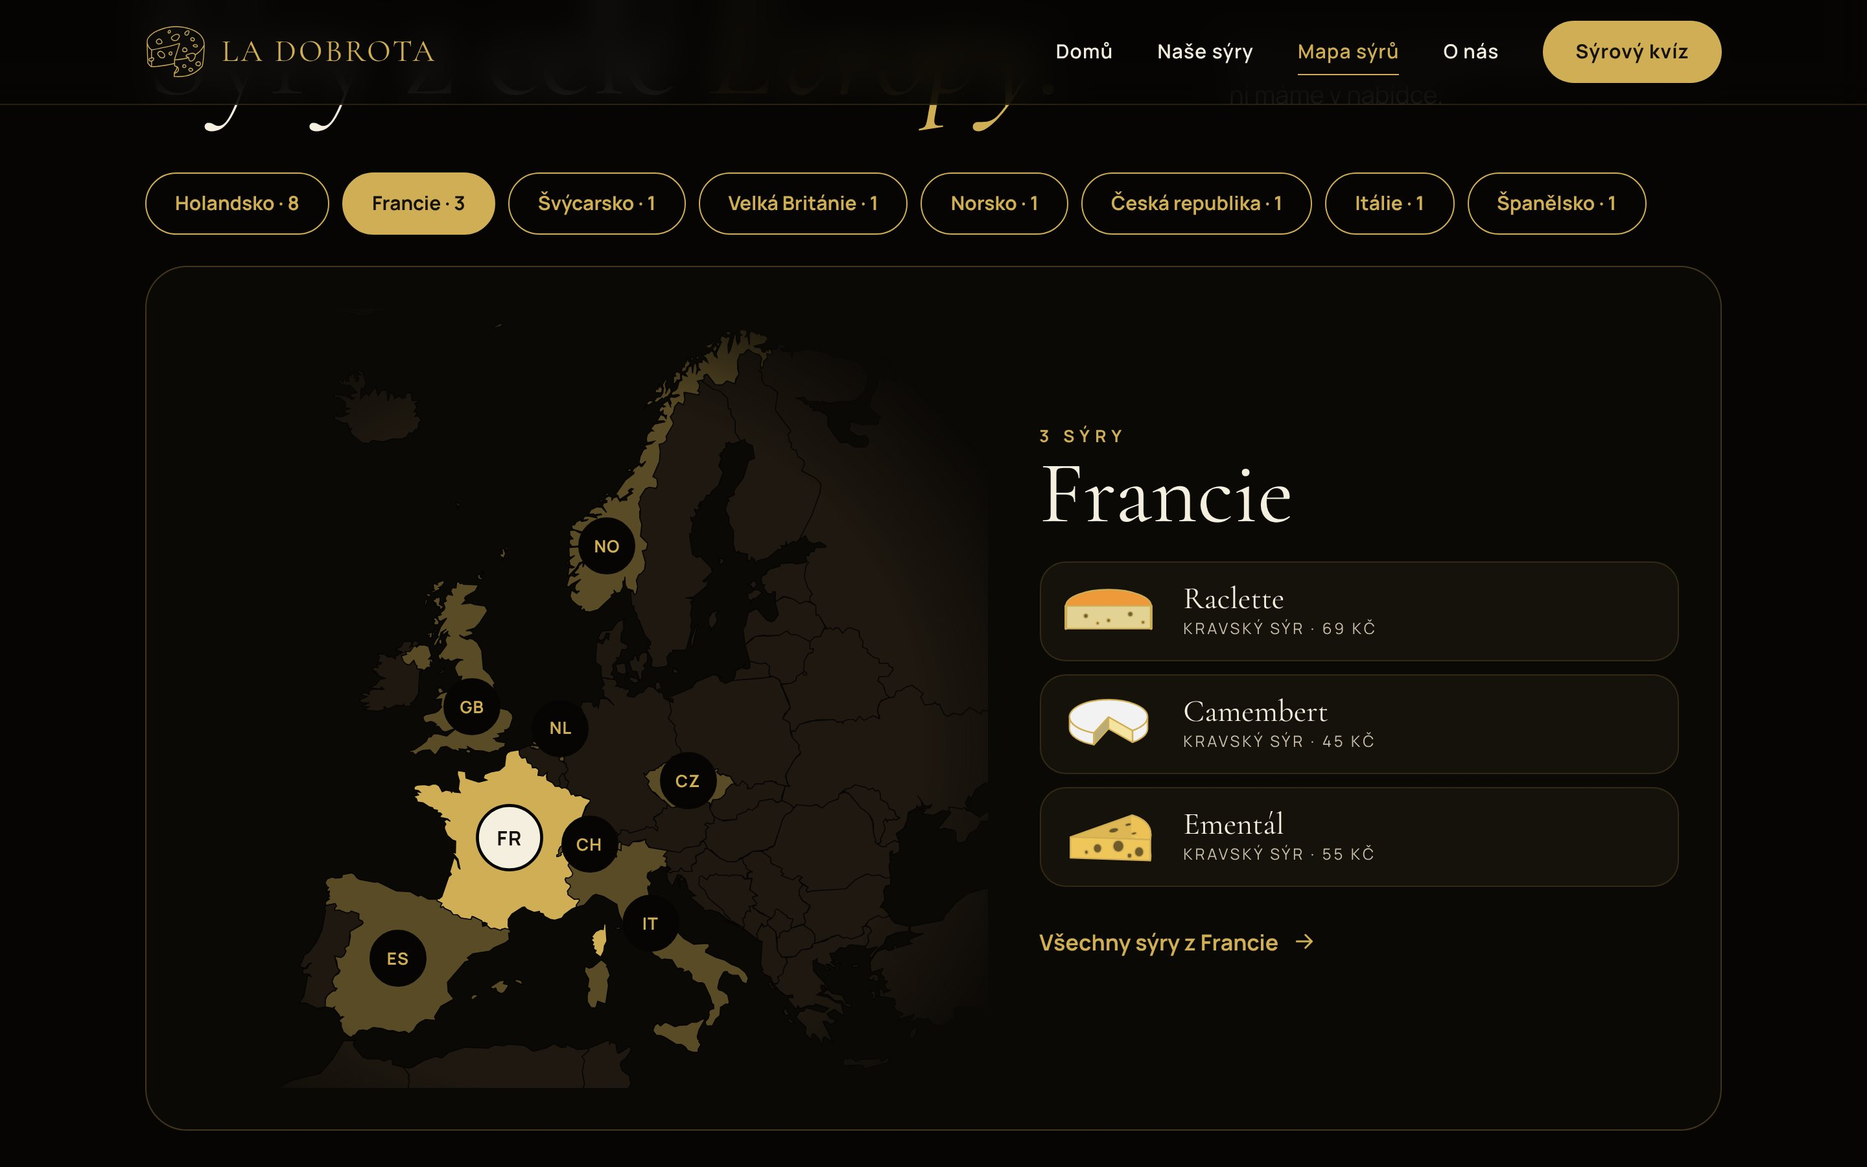
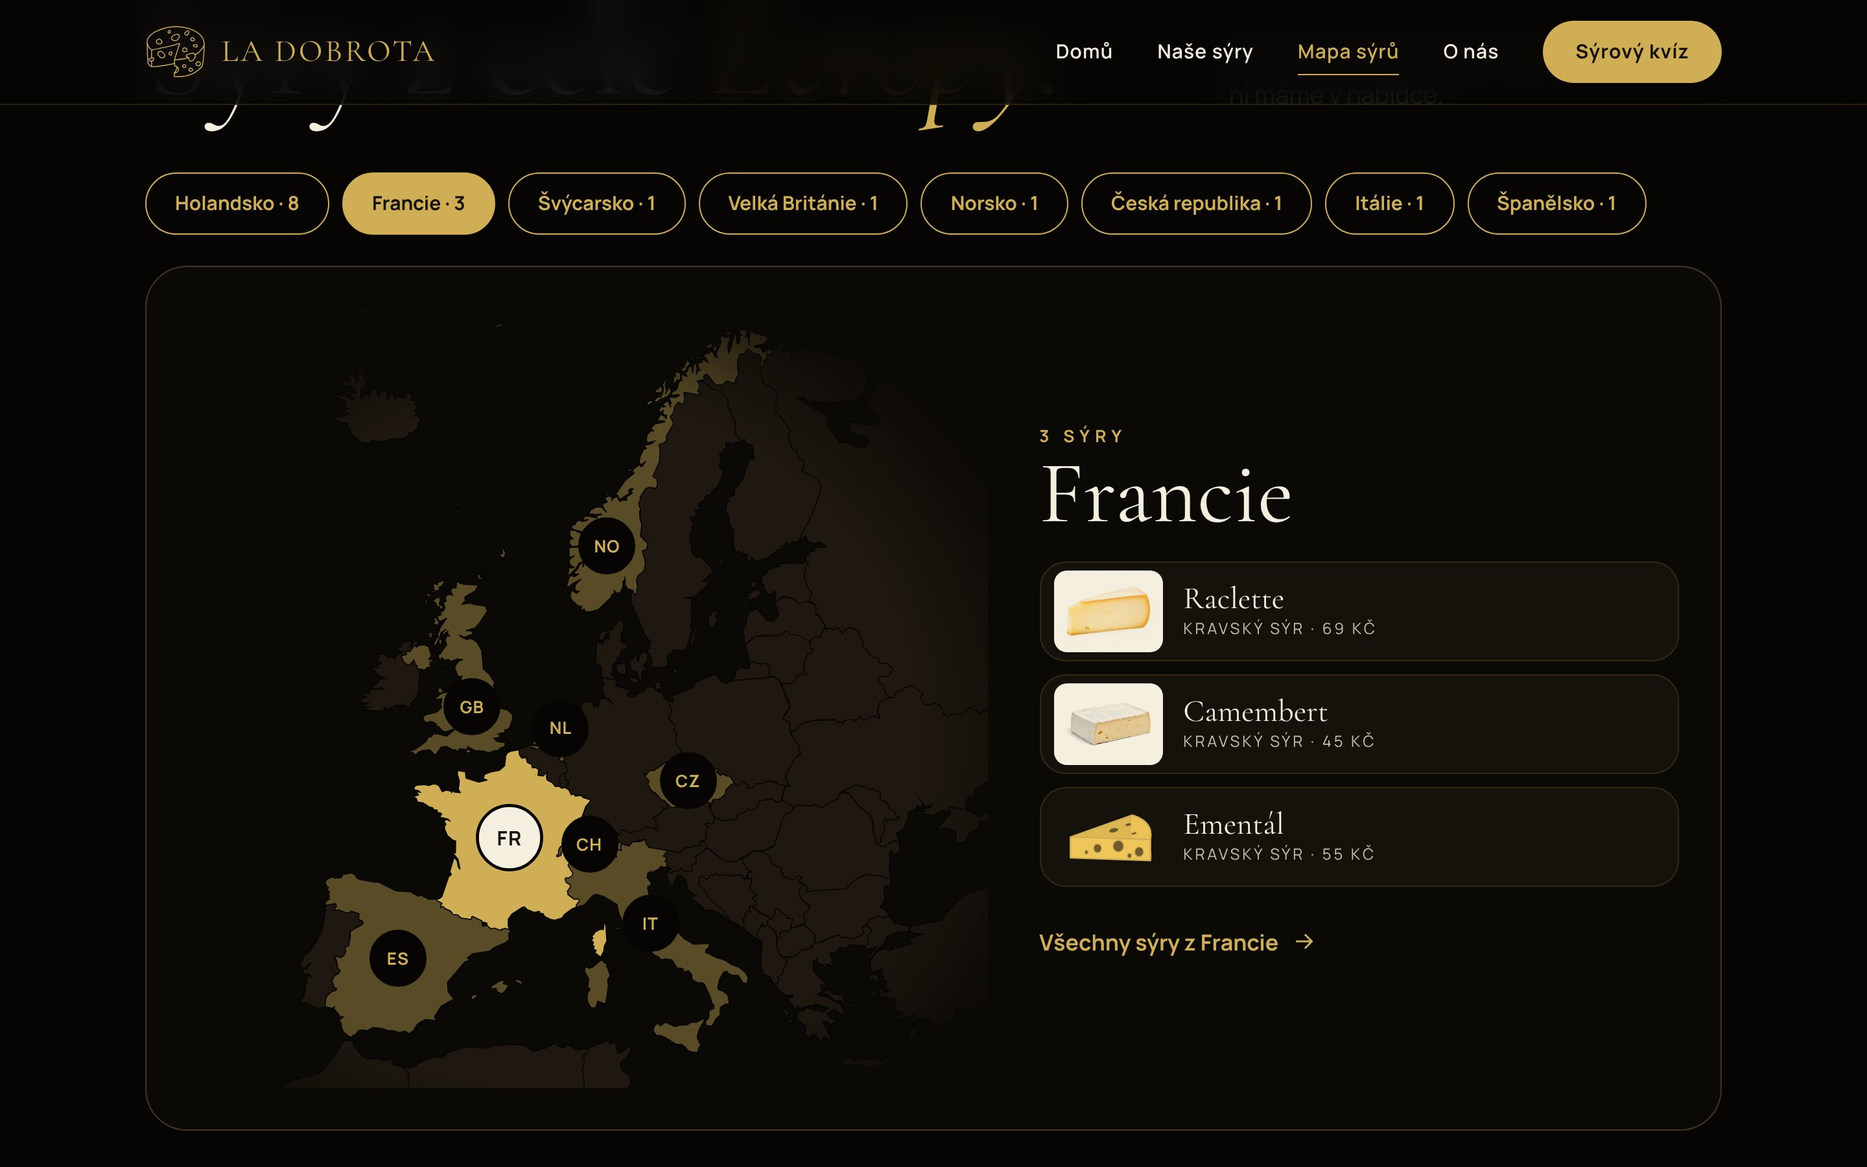
Use product photos for 14 cheeses
Photos come from syrydomu.cz, cropped to the cheese and shown on an
ivory tile; the catalogue page credits the source. Fancy Gouda and
Ementál keep their illustrations.

Claude-Session: https://claude.ai/code/session_01QZve3F1soMAkrn3iQReE83

Changed region(s): [[0.5625, 0.4667, 0.625, 0.6533]]

diff --git a/assets/js/data.js b/assets/js/data.js
@@ -23,16 +23,17 @@ export const COUNTRIES = {
 export const COUNTRY_ORDER = ['nl', 'fr', 'ch', 'gb', 'no', 'cz', 'it', 'es'];
 
 // price = katalogová cena s DPH v Kč; photo = cesta k fotce (když je prázdná, použije se ilustrace img)
+// Fotografie pocházejí z www.syrydomu.cz.
 export const CHEESES = [
   {
     id: 'syr-s-vlasskymi-orechy', name: 'Sýr s vlašskými ořechy', milk: 'kravske', countries: ['nl'], price: 69, allergens: [7, 8],
-    img: '01-syr-s-vlasskymi-orechy.svg', photo: '',
+    img: '01-syr-s-vlasskymi-orechy.svg', photo: '/assets/img/syry/foto/syr-s-vlasskymi-orechy.jpg',
     text: 'Základ tvoří jemný sýr, ve kterém jsou rozprostřené kousky ořechů.',
     fact: '',
   },
   {
     id: 'gouda', name: 'Gouda', milk: 'kravske', countries: ['nl'], price: 49, allergens: [7],
-    img: '02-gouda.svg', photo: '',
+    img: '02-gouda.svg', photo: '/assets/img/syry/foto/gouda.jpg',
     text: 'Sýr, který má chuť a pořád si zachovává svou krémovost a přístupnost.',
     fact: 'Jmenuje se podle nizozemského města Gouda, kde se s ní odedávna obchodovalo.',
   },
@@ -44,31 +45,31 @@ export const CHEESES = [
   },
   {
     id: 'irsky-cheddar', name: 'Irský cheddar', milk: 'kravske', countries: ['gb'], price: 69, allergens: [7],
-    img: '04-irsky-cheddar.svg', photo: '',
+    img: '04-irsky-cheddar.svg', photo: '/assets/img/syry/foto/irsky-cheddar.jpg',
     text: 'Přesně ten typ sýra, který je ideální na vaření.',
     fact: 'Cheddar dostal jméno podle vesnice Cheddar v anglickém hrabství Somerset.',
   },
   {
     id: 'raclette', name: 'Raclette', milk: 'kravske', countries: ['ch', 'fr'], price: 69, allergens: [7],
-    img: '05-raclette.svg', photo: '',
+    img: '05-raclette.svg', photo: '/assets/img/syry/foto/raclette.jpg',
     text: 'Švýcarská specialita na rozpékání. Jemně oříšková, smetanová a lehce ovocná chuť.',
     fact: 'Název pochází z francouzského „racler“ – škrábat. Roztavený sýr se seškrabává přímo na talíř.',
   },
   {
     id: 'uzeny-kremovy-syr', name: 'Uzený krémový sýr', milk: 'kravske', countries: ['nl'], price: 49, allergens: [7],
-    img: '06-uzeny-kremovy-syr.svg', photo: '',
+    img: '06-uzeny-kremovy-syr.svg', photo: '/assets/img/syry/foto/uzeny-kremovy-syr.jpg',
     text: 'Spojuje hladkou krémovou strukturu a díky zauzování na dřevě má jemné kouřové aroma.',
     fact: '',
   },
   {
     id: 'camembert', name: 'Camembert', milk: 'kravske', countries: ['fr'], price: 45, allergens: [7],
-    img: '07-camembert.svg', photo: '',
+    img: '07-camembert.svg', photo: '/assets/img/syry/foto/camembert.jpg',
     text: 'Francouzský sýr s bílou plísňovou kůrkou a jemným, krémovým středem.',
     fact: 'Pochází z Normandie a jmenuje se podle vesnice Camembert.',
   },
   {
     id: 'kaskaval', name: 'Kaškaval', milk: 'kravske', countries: ['nl'], price: 189, allergens: [7],
-    img: '08-kaskaval.svg', photo: '',
+    img: '08-kaskaval.svg', photo: '/assets/img/syry/foto/kaskaval.jpg',
     text: 'Tradiční balkánský polotvrdý sýr. Je ideální jak pro studenou kuchyni, tak i pro tepelnou úpravu.',
     fact: 'Na Balkáně se kaškaval často obaluje a smaží.',
   },
@@ -80,43 +81,43 @@ export const CHEESES = [
   },
   {
     id: 'karamelovy-syr-brunost', name: 'Karamelový sýr Brunost', milk: 'kravske', countries: ['no'], price: 98, allergens: [7],
-    img: '10-karamelovy-syr-brunost.svg', photo: '',
+    img: '10-karamelovy-syr-brunost.svg', photo: '/assets/img/syry/foto/karamelovy-syr-brunost.jpg',
     text: 'Sýr, který chutná jako karamel (a přesto je to sýr). Chuť je sladká, lehce slaná.',
     fact: 'Vyrábí se dlouhým vařením syrovátky se smetanou, při kterém mléčný cukr zkaramelizuje.',
   },
   {
     id: 'ovci-farmarsky-syr', name: 'Ovčí farmářský sýr', milk: 'ovci', countries: ['cz'], price: 79, allergens: [7],
-    img: '11-ovci-farmarsky-syr.svg', photo: '',
+    img: '11-ovci-farmarsky-syr.svg', photo: '/assets/img/syry/foto/ovci-farmarsky-syr.jpg',
     text: 'Má jemnou slanost a máslový základ. Při zrání ho chrání voskový obal.',
     fact: '',
   },
   {
     id: 'pecorino-s-pistaciemi', name: 'Pecorino s pistáciemi Lo Sfizio', short: 'Pecorino s pistáciemi', milk: 'ovci', countries: ['it'], price: 129, allergens: [7, 8],
-    img: '12-pecorino-s-pistaciemi.svg', photo: '',
+    img: '12-pecorino-s-pistaciemi.svg', photo: '/assets/img/syry/foto/pecorino-s-pistaciemi.jpg',
     text: 'Jedinečná kombinace plné chuti ovčího mléka a jemně nasládlých pistácií.',
     fact: 'Pecorino má jméno od italského slova „pecora“ – ovce.',
   },
   {
     id: 'manchego-dop', name: 'Manchego DOP', milk: 'ovci', countries: ['es'], price: 95, allergens: [7, 8],
-    img: '13-manchego-dop.svg', photo: '',
+    img: '13-manchego-dop.svg', photo: '/assets/img/syry/foto/manchego-dop.jpg',
     text: 'Elegantní sýr z ovčího mléka s jemně oříškovou chutí. Je pýchou španělské gastronomie.',
     fact: 'Pravé Manchego se vyrábí jen v kraji La Mancha z mléka ovcí plemene manchega. DOP znamená chráněné označení původu.',
   },
   {
     id: 'kozi-gouda', name: 'Kozí gouda', milk: 'kozi', countries: ['nl'], price: 79, allergens: [7],
-    img: '14-kozi-gouda.svg', photo: '',
+    img: '14-kozi-gouda.svg', photo: '/assets/img/syry/foto/kozi-gouda.jpg',
     text: 'Jemná, klidná, přirozená, s lehce máslovou a jemně nasládlou chutí.',
     fact: 'Kozí sýry jsou bělejší než kravské: kozí mléko neobsahuje žluté barvivo beta-karoten.',
   },
   {
     id: 'kozi-syr-s-medem', name: 'Kozí sýr s medem', milk: 'kozi', countries: ['nl'], price: 89, allergens: [7],
-    img: '15-kozi-syr-s-medem.svg', photo: '',
+    img: '15-kozi-syr-s-medem.svg', photo: '/assets/img/syry/foto/kozi-syr-s-medem.jpg',
     text: 'Kozí základ není výrazný ani ostrý, naopak velmi přístupný a hladký.',
     fact: '',
   },
   {
     id: 'kozi-syr-s-lanyzem', name: 'Kozí sýr s lanýžem', milk: 'kozi', countries: ['nl'], price: 99, allergens: [7, 8],
-    img: '16-kozi-syr-s-lanyzem.svg', photo: '',
+    img: '16-kozi-syr-s-lanyzem.svg', photo: '/assets/img/syry/foto/kozi-syr-s-lanyzem.jpg',
     text: 'Jemná gurmánská delikatesa. Má krásně vyváženou chuť.',
     fact: 'Lanýž je vzácná houba, která roste pod zemí.',
   },
@@ -153,6 +154,8 @@ export const CONTACT = {
 };
 
 export const cheeseImg = (c) => c.photo || `/assets/img/syry/${c.img}`;
+// Obrázek sýra jako HTML: fotka dostane světlou podložku, ilustrace zůstane průhledná.
+export const cheesePic = (c, cls = '') => `<span class="pic ${cls}${c.photo ? ' pic--photo' : ''}"><img src="${esc(cheeseImg(c))}" alt="" width="640" height="480" loading="lazy"></span>`;
 export const cheeseById = (id) => CHEESES.find((c) => c.id === id);
 export const cheesesFrom = (country) => CHEESES.filter((c) => c.countries.includes(country));
 export const allergenText = (c) => c.allergens.map((a) => `${ALLERGENS[a]} (${a})`).join(', ');

diff --git a/assets/css/style.css b/assets/css/style.css
@@ -196,7 +196,12 @@ button { font: inherit; color: inherit; }
 
 /* taste switcher */
 .taste { padding: clamp(24px, 4vw, 48px); display: grid; grid-template-columns: minmax(0, 400px) minmax(0, 1fr); align-items: center; gap: clamp(20px, 4vw, 48px); min-height: 400px; }
-.taste__img { width: 100%; height: auto; aspect-ratio: 4 / 3; object-fit: contain; }
+.pic { display: block; aspect-ratio: 4 / 3; overflow: hidden; }
+.pic img { width: 100%; height: 100%; object-fit: contain; }
+.pic--photo { background: var(--ivory); border-radius: 18px; }
+.pic--photo img { object-fit: cover; mix-blend-mode: multiply; }
+.taste__img { width: 100%; }
+.taste__img.pic--photo { border-radius: 24px; }
 .taste__body { display: flex; flex-direction: column; align-items: flex-start; gap: 16px; }
 .taste__name { font-family: var(--serif); font-weight: 400; font-size: clamp(36px, 4.4vw, 52px); line-height: 1; color: var(--ivory); }
 .taste__tags { display: flex; flex-wrap: wrap; gap: 8px; }
@@ -260,7 +265,7 @@ button { font: inherit; color: inherit; }
 .card__top { display: flex; align-items: baseline; justify-content: space-between; gap: 12px; }
 .card__milk { font-size: 12px; font-weight: 700; letter-spacing: 0.28em; text-transform: uppercase; color: var(--gold); }
 .card__num { font-family: var(--serif); font-size: 38px; line-height: 1; color: var(--gold); }
-.card__img { width: 100%; max-width: 220px; height: auto; aspect-ratio: 4 / 3; object-fit: contain; margin: 4px auto; transition: transform 0.5s var(--ease); }
+.card__img { width: 100%; max-width: 230px; margin: 4px auto; transition: transform 0.5s var(--ease); }
 .card__btn:hover .card__img { transform: scale(1.07) rotate(-3deg); }
 .card__name { font-family: var(--serif); font-size: 30px; line-height: 1.04; color: var(--ivory); margin-top: auto; }
 .card__origin { font-size: 15px; color: var(--muted); }
@@ -281,6 +286,7 @@ button { font: inherit; color: inherit; }
   .card__front { display: grid; grid-template-columns: 112px minmax(0, 1fr); grid-template-rows: auto auto 1fr auto; column-gap: 16px; row-gap: 4px; padding: 18px; }
   .card__top { grid-column: 2; }
   .card__img { grid-column: 1; grid-row: 1 / -1; align-self: center; margin: 0; max-width: 112px; }
+  .card__img.pic--photo { border-radius: 14px; }
   .card__name { grid-column: 2; font-size: 26px; margin-top: 0; }
   .card__origin { grid-column: 2; }
   .card__more { grid-column: 2; align-self: end; padding-top: 8px; }
@@ -315,7 +321,8 @@ button { font: inherit; color: inherit; }
 .mapinfo.is-swap li { animation: rise 0.45s var(--ease) both; animation-delay: calc(var(--i, 0) * 50ms); }
 .row { display: flex; align-items: center; gap: 16px; min-height: 76px; padding: 6px 18px 6px 10px; border-radius: 20px; background: var(--panel); border: 1px solid var(--line-soft); color: var(--ivory); transition: border-color 0.25s, transform 0.3s var(--ease); }
 .row:hover { border-color: var(--gold); color: var(--ivory); transform: translateX(4px); }
-.row img { width: 84px; height: 63px; flex: none; object-fit: contain; }
+.row__pic { width: 84px; flex: none; }
+.row__pic.pic--photo { border-radius: 10px; }
 .row__name { display: block; font-family: var(--serif); font-size: 24px; line-height: 1.1; }
 .row__milk { display: block; font-size: 12px; letter-spacing: 0.16em; text-transform: uppercase; color: var(--muted); }
 @media (max-width: 860px) { .mapbox { grid-template-columns: minmax(0, 1fr); } }
@@ -378,6 +385,8 @@ button { font: inherit; color: inherit; }
 .result__side { display: flex; flex-direction: column; align-items: center; gap: 14px; text-align: center; font-weight: 700; }
 .result__disc { width: 100%; max-width: 300px; aspect-ratio: 1; border-radius: 50%; background: var(--bg); display: flex; align-items: center; justify-content: center; animation: spinin 0.9s var(--ease) both 0.15s; }
 .result__disc img { width: 76%; height: auto; }
+.result__disc--photo { background: var(--ivory); overflow: hidden; }
+.result__disc--photo img { width: 100%; height: 100%; object-fit: cover; mix-blend-mode: multiply; scale: 0.82; }
 .result__score { font-family: var(--serif); font-weight: 300; font-size: clamp(88px, 12vw, 150px); line-height: 0.85; color: var(--gold); }
 .result__score small { font-size: 0.4em; color: var(--muted); }
 @keyframes spinin { from { opacity: 0; transform: scale(0.5) rotate(-40deg); } to { opacity: 1; transform: none; } }

diff --git a/assets/js/mapa.js b/assets/js/mapa.js
@@ -1,5 +1,5 @@
 // La Dobrota — interaktivní mapa Evropy: klik na zemi ukáže sýry, které z ní jsou.
-import { COUNTRIES, COUNTRY_ORDER, MILK, cheesesFrom, cheeseImg, cheeseCount, esc } from './data.js';
+import { COUNTRIES, COUNTRY_ORDER, MILK, cheesesFrom, cheesePic, cheeseCount, esc } from './data.js';
 import { replay } from './site.js';
 
 const map = document.getElementById('map');
@@ -21,7 +21,7 @@ function select(key, animate = true) {
   info.querySelector('.eyebrow').textContent = cheeseCount(list.length);
   info.querySelector('.mapinfo__name').textContent = COUNTRIES[key].name;
   info.querySelector('.mapinfo__list').innerHTML = list.map((c, i) => `<li data-i="${i}"><a class="row" href="/syry/#${c.id}">
-    <img src="${esc(cheeseImg(c))}" alt="" width="84" height="63">
+    ${cheesePic(c, 'row__pic')}
     <span><span class="row__name">${esc(c.short || c.name)}</span><span class="row__milk">${MILK[c.milk].adj} sýr · ${c.price} Kč</span></span></a></li>`).join('');
   info.querySelectorAll('li').forEach((li) => li.style.setProperty('--i', li.dataset.i));
   info.querySelector('.link-arrow').href = `/syry/?zeme=${key}`;

diff --git a/assets/js/syry.js b/assets/js/syry.js
@@ -1,5 +1,5 @@
 // La Dobrota — katalog sýrů: filtr podle mléka a země, otáčecí karty.
-import { CHEESES, MILK, COUNTRIES, cheeseImg, countryNames, allergenText, cheeseCount, esc } from './data.js';
+import { CHEESES, MILK, COUNTRIES, cheesePic, countryNames, allergenText, cheeseCount, esc } from './data.js';
 
 const grid = document.getElementById('cards');
 const chipBox = document.getElementById('filters');
@@ -20,7 +20,7 @@ function card(c, i) {
       <span class="card__inner">
         <span class="card__face card__front">
           <span class="card__top"><span class="card__milk">${MILK[c.milk].label}</span><span class="card__num">${n}</span></span>
-          <img class="card__img" src="${esc(cheeseImg(c))}" alt="" width="240" height="180" loading="lazy">
+          ${cheesePic(c, 'card__img')}
           <span class="card__name">${esc(c.name)}</span>
           <span class="card__origin">${esc(countryNames(c))}</span>
           <span class="card__more">Zjistit víc ${ICON}</span>

diff --git a/syry/index.html b/syry/index.html
@@ -59,7 +59,7 @@
   <ul class="cards" id="cards"></ul>
   <noscript><p class="note">Katalog se načítá pomocí JavaScriptu. Zapni ho prosím v prohlížeči.</p></noscript>
 
-  <p class="note">Ceny jsou katalogové ceny naší fiktivní firmy včetně DPH. Sýry tu nejde objednat ani zaplatit. Alergeny: 7 – mléko, 8 – skořápkové plody (ořechy). Obrázky sýrů jsou ilustrace.</p>
+  <p class="note">Ceny jsou katalogové ceny naší fiktivní firmy včetně DPH. Sýry tu nejde objednat ani zaplatit. Alergeny: 7 – mléko, 8 – skořápkové plody (ořechy). Fotografie sýrů: syrydomu.cz. Fancy Gouda a Ementál jsou ilustrace.</p>
 </section>
 </main>
 <footer class="site-footer">

diff --git a/tools/pages/syry.html b/tools/pages/syry.html
@@ -18,5 +18,5 @@
   <ul class="cards" id="cards"></ul>
   <noscript><p class="note">Katalog se načítá pomocí JavaScriptu. Zapni ho prosím v prohlížeči.</p></noscript>
 
-  <p class="note">Ceny jsou katalogové ceny naší fiktivní firmy včetně DPH. Sýry tu nejde objednat ani zaplatit. Alergeny: 7 – mléko, 8 – skořápkové plody (ořechy). Obrázky sýrů jsou ilustrace.</p>
+  <p class="note">Ceny jsou katalogové ceny naší fiktivní firmy včetně DPH. Sýry tu nejde objednat ani zaplatit. Alergeny: 7 – mléko, 8 – skořápkové plody (ořechy). Fotografie sýrů: syrydomu.cz. Fancy Gouda a Ementál jsou ilustrace.</p>
 </section>

diff --git a/index.html b/index.html
@@ -94,7 +94,7 @@
     </div>
   </div>
   <div class="panel taste reveal" id="taste" aria-live="polite">
-    <img class="taste__img" src="/assets/img/syry/10-karamelovy-syr-brunost.svg" alt="Karamelový sýr Brunost" width="400" height="300">
+    <span class="pic pic--photo taste__img"><img src="/assets/img/syry/foto/karamelovy-syr-brunost.jpg" alt="Karamelový sýr Brunost" width="640" height="480"></span>
     <div class="taste__body">
       <p class="eyebrow">z kravského mléka · Norsko</p>
       <h3 class="taste__name">Karamelový sýr Brunost</h3>

diff --git a/tools/pages/index.html b/tools/pages/index.html
@@ -53,7 +53,7 @@
     </div>
   </div>
   <div class="panel taste reveal" id="taste" aria-live="polite">
-    <img class="taste__img" src="/assets/img/syry/10-karamelovy-syr-brunost.svg" alt="Karamelový sýr Brunost" width="400" height="300">
+    <span class="pic pic--photo taste__img"><img src="/assets/img/syry/foto/karamelovy-syr-brunost.jpg" alt="Karamelový sýr Brunost" width="640" height="480"></span>
     <div class="taste__body">
       <p class="eyebrow">z kravského mléka · Norsko</p>
       <h3 class="taste__name">Karamelový sýr Brunost</h3>

diff --git a/assets/js/home.js b/assets/js/home.js
@@ -58,8 +58,9 @@ if (taste) {
   const render = (animate) => {
     const all = list();
     const c = all[state.i];
-    el('.taste__img').src = cheeseImg(c);
-    el('.taste__img').alt = c.name;
+    el('.taste__img img').src = cheeseImg(c);
+    el('.taste__img img').alt = c.name;
+    el('.taste__img').classList.toggle('pic--photo', Boolean(c.photo));
     el('.eyebrow').textContent = `${MILK[c.milk].from} · ${countryNames(c)}`;
     el('.taste__name').textContent = c.name;
     el('.taste__text').textContent = c.text;

diff --git a/assets/js/kviz.js b/assets/js/kviz.js
@@ -182,7 +182,7 @@ function personResult() {
         </div>
       </div>
       <div class="result__side">
-        <div class="result__disc"><img src="${esc(cheeseImg(c))}" alt="${esc(c.name)}" width="240" height="180"></div>
+        <div class="result__disc${c.photo ? ' result__disc--photo' : ''}"><img src="${esc(cheeseImg(c))}" alt="${esc(c.name)}" width="240" height="180"></div>
         <span>Ukaž výsledek u našeho stánku</span>
       </div>
     </div>

diff --git a/README.md b/README.md
@@ -35,12 +35,12 @@ python3 tools/build.py
 
 ## Как выложить
 
-Сайт на Cloudflare Pages берётся из корня ветки `main`. Чтобы изменения появились по адресу из QR-кода, их нужно слить в `main`.
+Готовый сайт лежит в корне ветки `main`. Проект в Cloudflare Pages, судя по всему, не подключён к GitHub, поэтому сам он не обновляется: файлы сайта нужно загрузить в Cloudflare вручную (Workers & Pages → проект → Create deployment → загрузить папку или ZIP с сайтом). Папки `research/` и `tools/` загружать не нужно.
 
 ## Что откуда
 
 - Логотип, цвета и контакты — с визитки (`research/brand/`).
 - Шрифты Cormorant Garamond и Manrope лежат в `assets/fonts/`, лицензия SIL Open Font License.
-- Рисунки сыров — собственные иллюстрации (`research/ilustrace/generate.py`).
+- Фотографии 14 сыров взяты из магазина www.syrydomu.cz (`assets/img/syry/foto/`), на странице каталога стоит подпись об этом. Fancy Gouda и Ementál там не нашлись, у них остались собственные рисунки (`research/ilustrace/generate.py`).
 - Контуры карты — Natural Earth, общественное достояние (`research/mapa/build_map.js`).
 - `research/` — отчёты по сайтам-примерам, каталог и макет. На самом сайте эта папка не показывается (`_redirects`).
